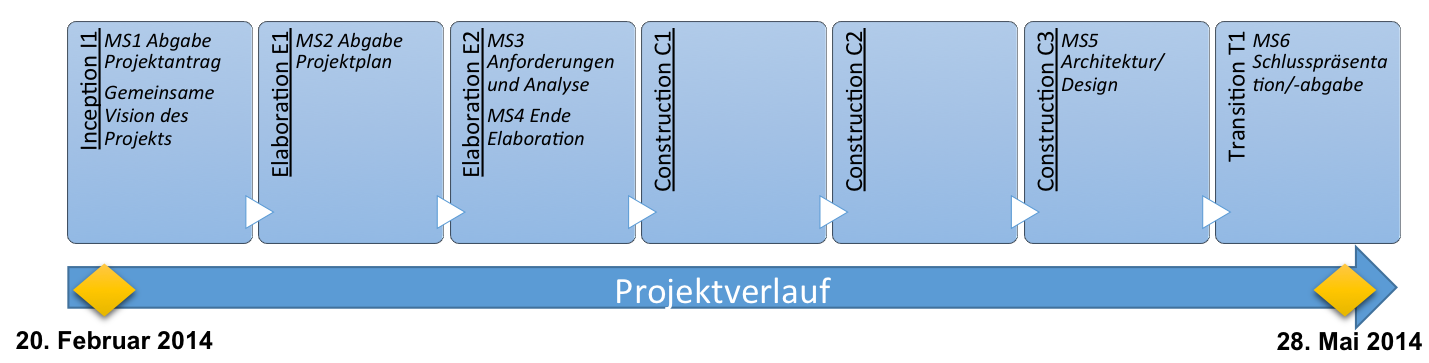
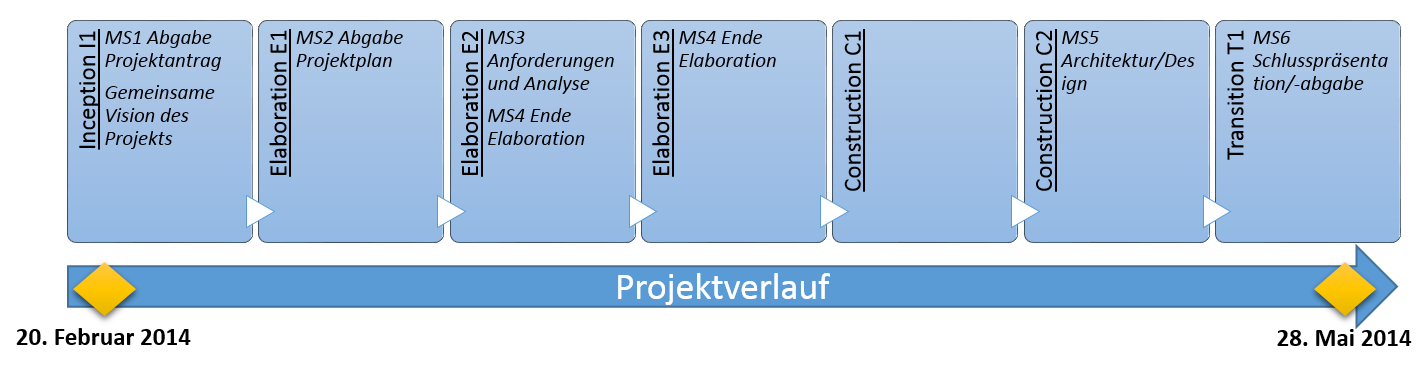
Updated for End of Elaboration E3

Changed region(s): [[0.0, 0.0303, 1.0, 0.9697], [0.5546, 0.0909, 0.6162, 0.5758]]

diff --git a/content/management_ablaeufe.tex b/content/management_ablaeufe.tex
@@ -84,22 +84,22 @@ Wir werden in unserem Projekt nach dem Unified Process arbeiten. Die beinhaltet 
                 \item Fertigstellung Use Cases
                 \item Fertigstellung Architektur-Prototyps
             \end{itemize} &
-            \begin{itemize}
-                \item MS4-RV. Ende Elaboration
-            \end{itemize} &
+            &
             5-6
         \tabularnewline
-            \textit{Construction C1} &
+            \textit{Elaboration E3} &
             \begin{itemize}
                 \item Implementationsarbeiten beginnen
                     \begin{itemize}
                         \item Login-/Logout-Funktion
-                        \item Einsatzkatalog 
-                        \item Mitgliederverwaltung
+                        \item Für Helfereinsatz eintragen
+                        \item Helfereinsätze planen
                     \end{itemize}
                 \item Anpassungen gemäss Designreview
             \end{itemize} &
-            &
+            \begin{itemize}
+                \item MS4-RV. Ende Elaboration
+            \end{itemize} &
             7-8
         \tabularnewline
         \tableend
@@ -117,7 +117,7 @@ Wir werden in unserem Projekt nach dem Unified Process arbeiten. Die beinhaltet 
             \tablehead Meilenstein &
             \tablehead SW \tabularnewline
         \tablebody
-            \textit{Construction C2} &
+            \textit{Construction C1} &
             \begin{itemize}
                 \item Externes Design anpassen
                 \item Implementationen erweitern
@@ -129,7 +129,7 @@ Wir werden in unserem Projekt nach dem Unified Process arbeiten. Die beinhaltet 
              &
             9-10
         \tabularnewline
-            \textit{Construction C3} &
+            \textit{Construction C2} &
             \begin{itemize}
                 \item Implementationen abschliessen
                     \begin{itemize}
@@ -239,11 +239,11 @@ Wir werden in unserem Projekt nach dem Unified Process arbeiten. Die beinhaltet 
     \begin{tabularx}{\textwidth}{l X}
         \tablebody
         \tablehead Termin &
-            27.03.14 (SW06) \tabularnewline
+            10.04.14 (SW08) \tabularnewline
         \tablehead Phase &
             E2 \tabularnewline
         \tablehead Beschreibung  &
-            Review der Dokumente und vorhandenen Code aus E1 \& E2 \tabularnewline
+            Review der Dokumente und vorhandenen Code aus E1, E2 \& E3 \tabularnewline
         \tablehead Deliverables  &
         	\begin{itemize}
                 \item Architektur-Prototyp

diff --git a/projektplan.tex b/projektplan.tex
@@ -37,6 +37,7 @@
             v1.5 & 06.03.2014 & Überarbeitung für Review & All \tabularnewline 
             v1.6 & 10.03.2014 & Resultate aus Review MS2 (VOLO-37 ) & p1meier \tabularnewline 
             v1.8 & 25.03.2014 & Risiken nachgeführt nach E2 & nle \tabularnewline 
+            v1.8 & 09.04.2014 & Iterationsplanung für E3 angepasst & p1meier \tabularnewline 
         \tableend
         \end{tabularx} 
     \end{table}
